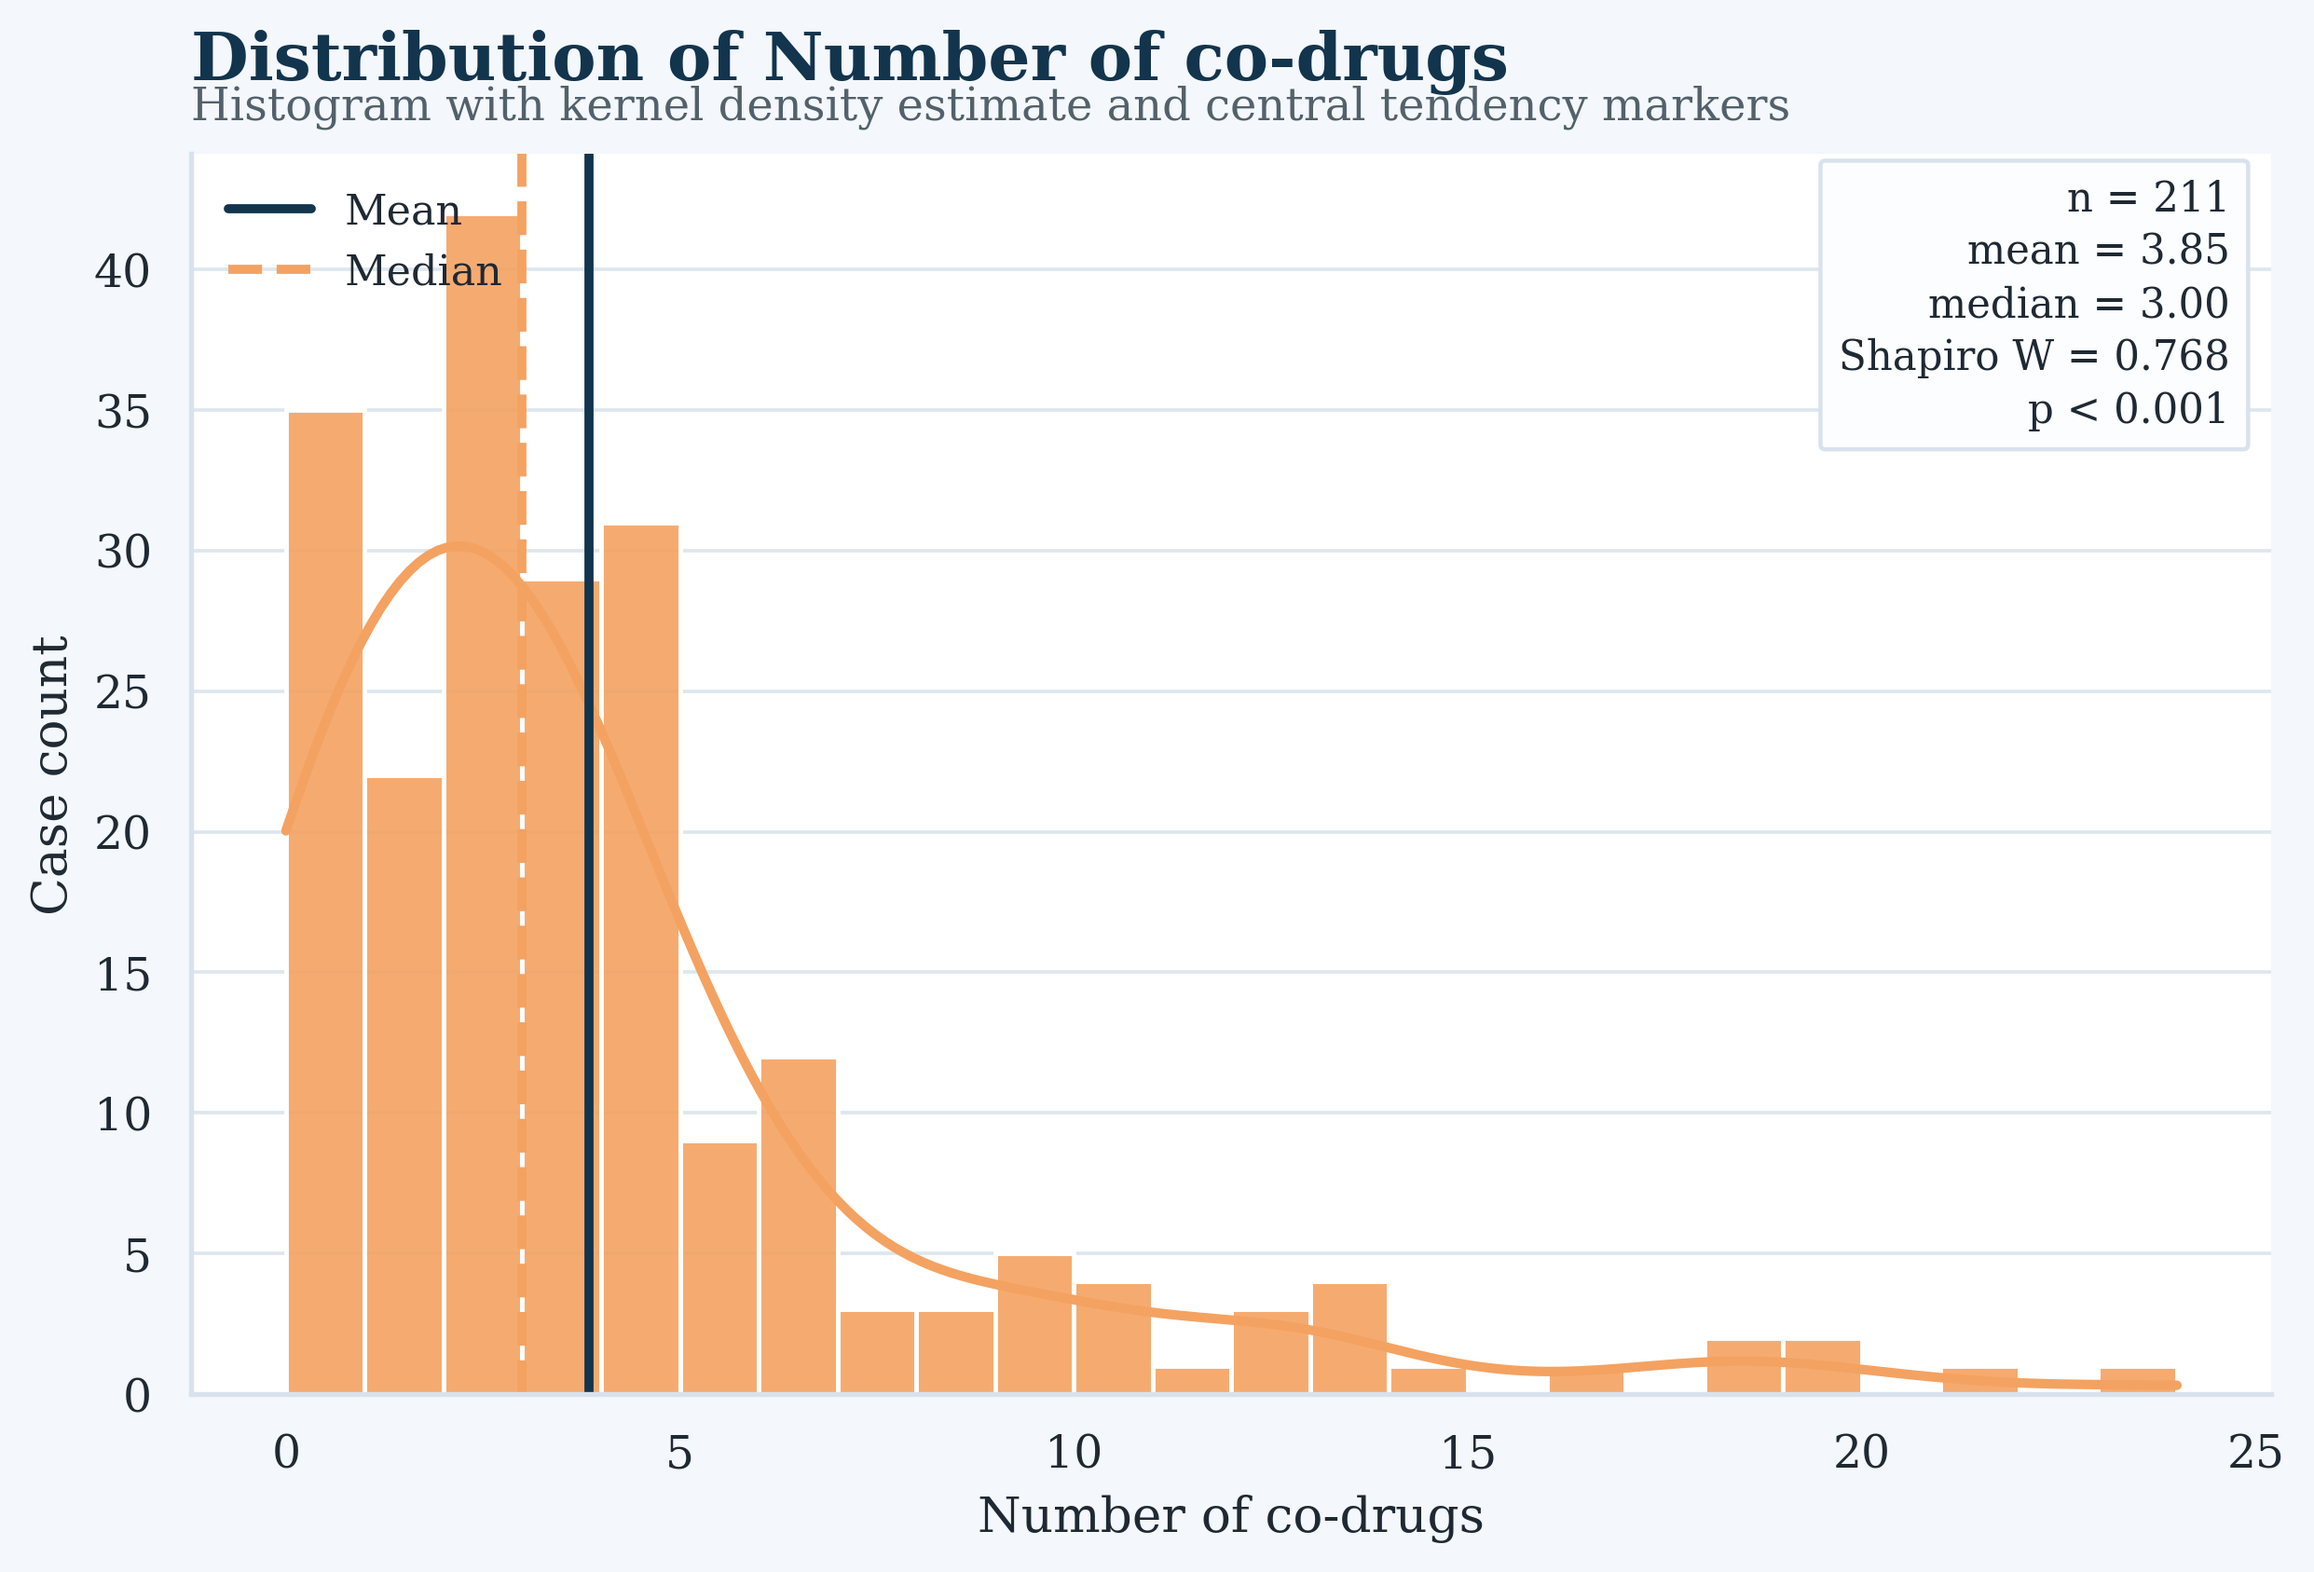
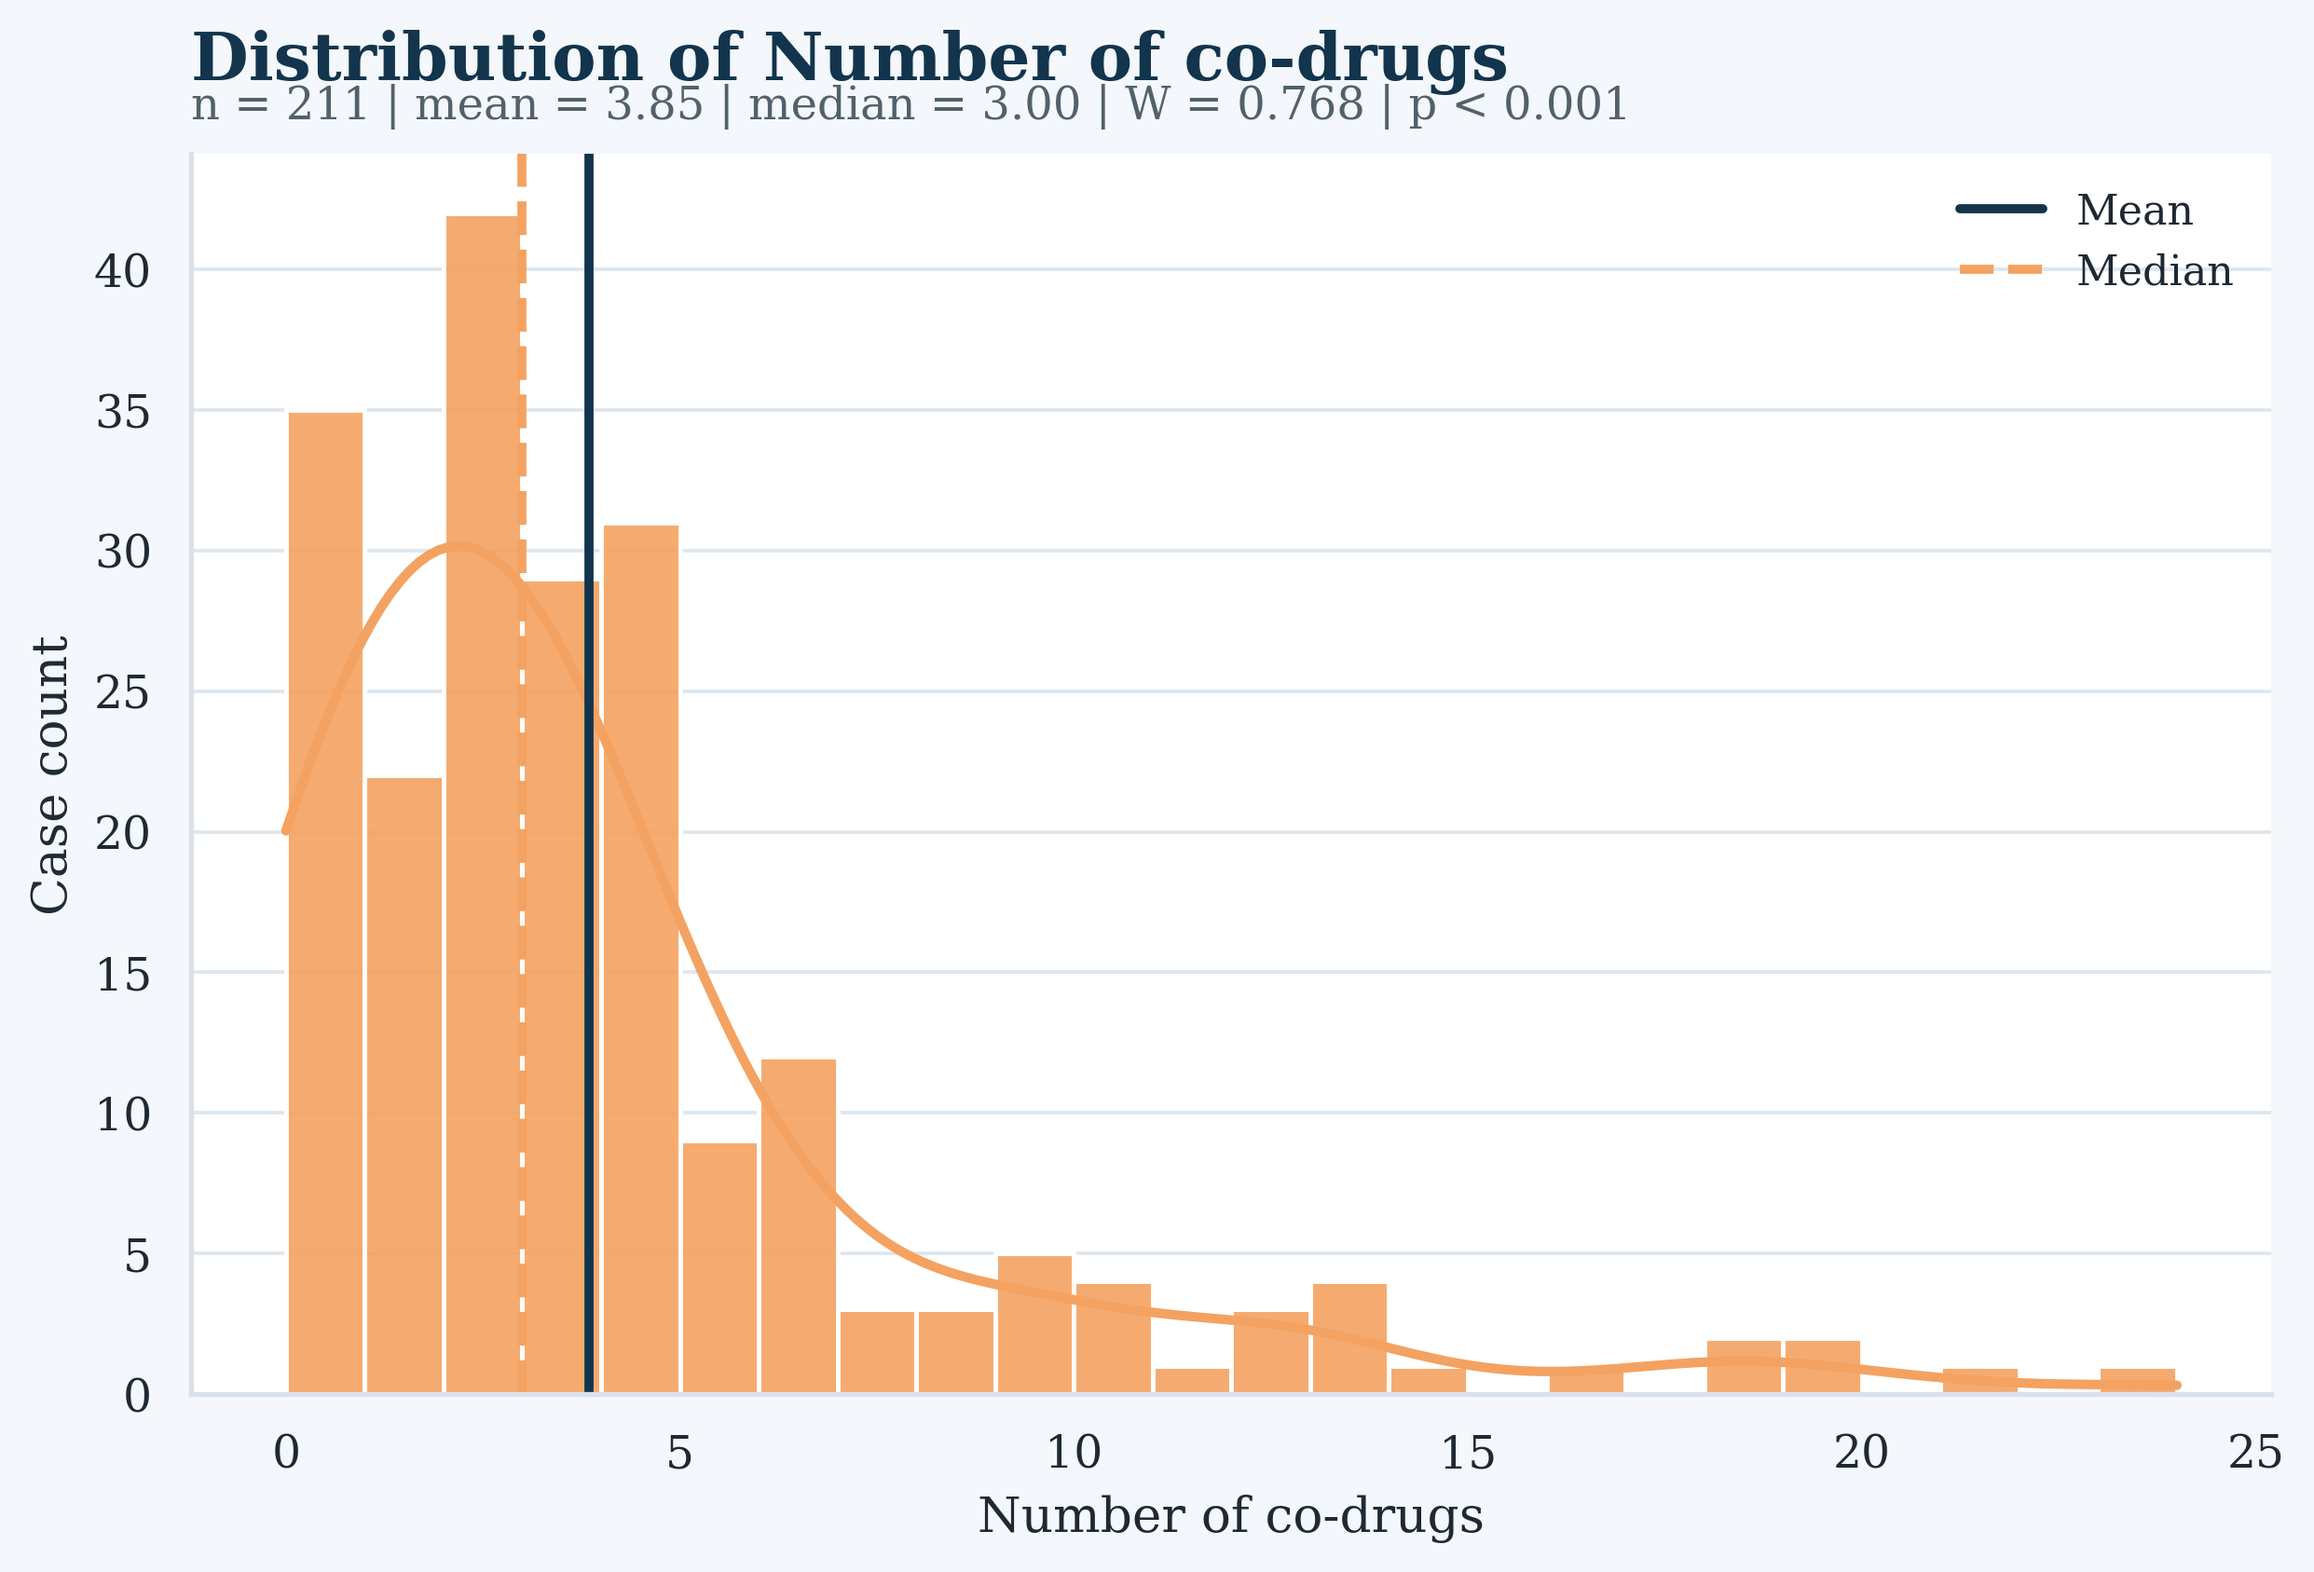
improve figure clarity

diff --git a/06_analysis/build_analysis_outputs.py b/06_analysis/build_analysis_outputs.py
@@ -165,6 +165,18 @@ def add_title_block(ax, title: str, subtitle: str = "") -> None:
         )
 
 
+def concise_distribution_subtitle(series: pd.Series, stat: float, p: float) -> str:
+    return " | ".join(
+        [
+            f"n = {len(series):,}",
+            f"mean = {series.mean():.2f}",
+            f"median = {series.median():.2f}",
+            f"W = {stat:.3f}" if pd.notna(stat) else "W = NA",
+            format_p_value(p),
+        ]
+    )
+
+
 def add_badge(
     ax,
     text: str,
@@ -315,35 +327,21 @@ def normality_checks(df: pd.DataFrame) -> pd.DataFrame:
         )
         ax.axvline(s.mean(), color=PALETTE["navy"], linewidth=2.2, linestyle="-", label="Mean")
         ax.axvline(s.median(), color=PALETTE["orange"], linewidth=2.2, linestyle="--", label="Median")
-        add_title_block(ax, f"Distribution of {pretty_label(col)}", "Histogram with kernel density estimate and central tendency markers")
+        add_title_block(ax, f"Distribution of {pretty_label(col)}", concise_distribution_subtitle(s, stat, p))
         style_axes(ax, grid_axis="y")
         ax.set_xlabel(pretty_label(col))
         ax.set_ylabel("Case count")
-        ax.legend(loc="upper left")
-        add_badge(
-            ax,
-            "\n".join(
-                [
-                    f"n = {len(s):,}",
-                    f"mean = {s.mean():.2f}",
-                    f"median = {s.median():.2f}",
-                    f"Shapiro W = {stat:.3f}" if pd.notna(stat) else "Shapiro W = NA",
-                    format_p_value(p),
-                ]
-            ),
-            facecolor="#fbfdff",
-        )
+        ax.legend(loc="upper right")
         save_figure(fig, FIG_DIR / HISTOGRAM_NAMES[col])
 
         fig, ax = plt.subplots(figsize=(6.6, 6.2), facecolor=PALETTE["bg"])
         (theoretical, ordered), (slope, intercept, r_value) = stats.probplot(s, dist="norm")
         ax.scatter(theoretical, ordered, s=38, color=color, alpha=0.85, edgecolors="white", linewidths=0.55)
         ax.plot(theoretical, slope * np.asarray(theoretical) + intercept, color=PALETTE["navy"], linewidth=2.2)
-        add_title_block(ax, f"Q-Q Plot for {pretty_label(col)}", "Departure from the reference line indicates non-normality")
+        add_title_block(ax, f"Q-Q Plot for {pretty_label(col)}", f"Reference-line correlation = {r_value:.3f} | {format_p_value(p)}")
         style_axes(ax, grid_axis="both")
         ax.set_xlabel("Theoretical quantiles")
         ax.set_ylabel("Observed quantiles")
-        add_badge(ax, f"Correlation = {r_value:.3f}\n{format_p_value(p)}", facecolor="#fbfdff")
         save_figure(fig, FIG_DIR / QQ_NAMES[col])
 
     out = pd.DataFrame(rows)
@@ -398,21 +396,10 @@ def analysis_a_b_c(df: pd.DataFrame) -> pd.DataFrame:
         medianprops={"color": PALETTE["red"], "linewidth": 2.0},
         ax=ax,
     )
-    sns.stripplot(
-        data=plot_df,
-        x="age_group",
-        y="total_acb_with_dph",
-        order=order,
-        color=PALETTE["ink"],
-        alpha=0.26,
-        size=3.4,
-        jitter=0.2,
-        ax=ax,
-    )
     ymax = np.nanmax(plot_df["total_acb_with_dph"]) if plot_df["total_acb_with_dph"].notna().any() else 1
     ymin = np.nanmin(plot_df["total_acb_with_dph"]) if plot_df["total_acb_with_dph"].notna().any() else 0
     lower = min(0, ymin - max(0.25, 0.05 * max(ymax, 1)))
-    ax.set_ylim(lower, ymax * 1.34 if ymax > 0 else 1.5)
+    ax.set_ylim(lower, ymax * 1.24 if ymax > 0 else 1.5)
 
     summary = plot_df.groupby("age_group")["total_acb_with_dph"].agg(["median", "count"]).reindex(order)
     for idx, row in enumerate(summary.itertuples()):
@@ -420,21 +407,20 @@ def analysis_a_b_c(df: pd.DataFrame) -> pd.DataFrame:
         ax.text(idx, lower + 0.02 * (ax.get_ylim()[1] - lower), f"n = {int(row.count)}", ha="center", va="bottom", fontsize=10, color=PALETTE["slate"])
 
     level_map = {lvl: idx for idx, lvl in enumerate(order)}
-    pair_y = ymax * 1.10 if ymax > 0 else 1
+    pair_y = ymax * 1.06 if ymax > 0 else 1
     for i, a in enumerate(order):
         for b in order[i + 1 :]:
             pval = dunn_df.loc[a, b] if a in dunn_df.index and b in dunn_df.columns else np.nan
             if pd.notna(pval) and pval < 0.05:
                 xa, xb = level_map[a], level_map[b]
                 ax.plot([xa, xa, xb, xb], [pair_y, pair_y * 1.015, pair_y * 1.015, pair_y], color=PALETTE["slate"], lw=1.3)
-                ax.text((xa + xb) / 2, pair_y * 1.02, f"{p_stars(float(pval))} ({format_p_value(float(pval))})", ha="center", va="bottom", color=PALETTE["red"], fontsize=10.2)
+                ax.text((xa + xb) / 2, pair_y * 1.018, p_stars(float(pval)), ha="center", va="bottom", color=PALETTE["red"], fontsize=11)
                 pair_y *= 1.06
 
-    add_title_block(ax, "Total ACB Burden Across Age Groups", f"Kruskal-Wallis: H = {k_stat:.2f}, {format_p_value(p_kw)}")
+    add_title_block(ax, "Total ACB Burden Across Age Groups", f"Kruskal-Wallis H = {k_stat:.2f} | {format_p_value(p_kw)} | Violin shows density; box shows median and IQR")
     style_axes(ax, grid_axis="y")
     ax.set_xlabel("Age group")
     ax.set_ylabel("Total ACB (with DPH)")
-    add_badge(ax, "Violin = density\nBox = median and IQR\nRed point = group median", x=0.02, ha="left", facecolor="#fbfdff")
     save_figure(fig, FIG_DIR / FILE_NAMES["figure_age_group"])
 
     rho, p_sp = spearmanr(df["total_acb_codrugs_only"], df["max_severity"], nan_policy="omit")
@@ -443,18 +429,15 @@ def analysis_a_b_c(df: pd.DataFrame) -> pd.DataFrame:
     fig, ax = plt.subplots(figsize=(8.4, 6.1), facecolor=PALETTE["bg"])
     severity_df = df[["total_acb_codrugs_only", "max_severity", "cardiac_any"]].dropna().copy()
     severity_df["severity_jittered"] = severity_df["max_severity"] + RNG.normal(0, 0.05, size=len(severity_df))
-    for cardiac_value, label in CARDIAC_LABELS.items():
-        subset = severity_df[severity_df["cardiac_any"] == cardiac_value]
-        ax.scatter(
-            subset["total_acb_codrugs_only"],
-            subset["severity_jittered"],
-            s=34,
-            alpha=0.45,
-            color=CARDIAC_COLORS[cardiac_value],
-            edgecolors="white",
-            linewidths=0.45,
-            label=label,
-        )
+    ax.scatter(
+        severity_df["total_acb_codrugs_only"],
+        severity_df["severity_jittered"],
+        s=30,
+        alpha=0.34,
+        color=PALETTE["teal"],
+        edgecolors="white",
+        linewidths=0.4,
+    )
     sns.regplot(
         data=severity_df,
         x="total_acb_codrugs_only",
@@ -464,23 +447,11 @@ def analysis_a_b_c(df: pd.DataFrame) -> pd.DataFrame:
         line_kws={"color": PALETTE["navy"], "lw": 2.8},
         ax=ax,
     )
-    add_title_block(ax, "ACB Burden Versus Maximum Case Severity", f"Spearman correlation: rho = {rho:.2f}, {format_p_value(p_sp)}")
+    add_title_block(ax, "ACB Burden Versus Maximum Case Severity", f"Spearman rho = {rho:.2f} | {format_p_value(p_sp)} | Points are lightly jittered vertically to reduce overlap")
     style_axes(ax, grid_axis="both")
     ax.set_xlabel("Total ACB (co-drugs only)")
     ax.set_ylabel("Max severity")
     ax.set_yticks(sorted(severity_df["max_severity"].dropna().unique()))
-    ax.legend(loc="upper left", title="Outcome subgroup")
-    add_badge(
-        ax,
-        "\n".join(
-            [
-                f"n = {len(severity_df):,}",
-                f"Median ACB = {severity_df['total_acb_codrugs_only'].median():.2f}",
-                f"Median severity = {severity_df['max_severity'].median():.2f}",
-            ]
-        ),
-        facecolor="#fbfdff",
-    )
     save_figure(fig, FIG_DIR / FILE_NAMES["figure_severity"])
 
     out = pd.DataFrame(rows)
@@ -587,7 +558,6 @@ def logistic_and_forest(df: pd.DataFrame) -> pd.DataFrame:
     text_x = ax.get_xlim()[1] / 1.02
     for yi, value in enumerate(value_text):
         ax.text(text_x, yi, value, ha="right", va="center", fontsize=10, color=PALETTE["ink"])
-    add_badge(ax, "Teal = p < 0.05\nDashed line = null effect", x=0.02, ha="left", facecolor="#fbfdff")
     fig.subplots_adjust(left=0.29, right=0.97, top=0.88, bottom=0.13)
     save_figure(fig, FIG_DIR / FILE_NAMES["figure_forest"])
 
@@ -605,19 +575,8 @@ def logistic_and_forest(df: pd.DataFrame) -> pd.DataFrame:
     style_axes(ax, grid_axis="both")
     ax.set_xlabel("False Positive Rate")
     ax.set_ylabel("True Positive Rate")
-    add_title_block(ax, "ROC Curve for the Cardiac Risk Model", "Receiver operating characteristic with highlighted best tradeoff point")
+    add_title_block(ax, "ROC Curve for the Cardiac Risk Model", f"AUC = {auc:.3f} | Best sensitivity = {tpr[youden_idx]:.2f} | Best specificity = {1 - fpr[youden_idx]:.2f}")
     ax.legend(loc="lower right")
-    add_badge(
-        ax,
-        "\n".join(
-            [
-                f"Best sensitivity = {tpr[youden_idx]:.2f}",
-                f"Best specificity = {1 - fpr[youden_idx]:.2f}",
-                f"AUC = {auc:.3f}",
-            ]
-        ),
-        facecolor="#fbfdff",
-    )
     save_figure(fig, FIG_DIR / FILE_NAMES["figure_roc"])
 
     pd.DataFrame(fit_rows).to_csv(TAB_DIR / FILE_NAMES["table_fit"], index=False)
